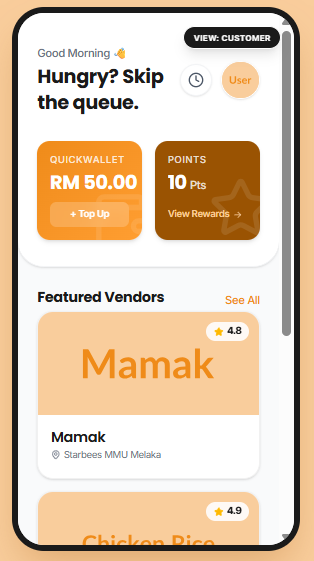
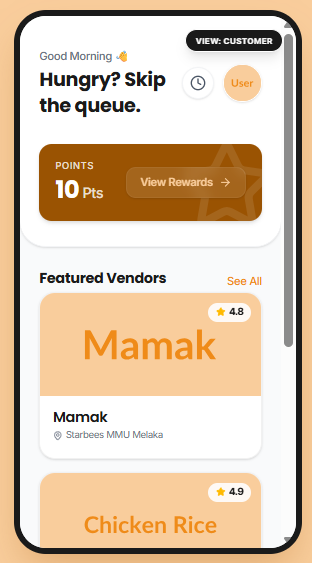
refactor(assets): update visual assets and viewport settings
Update hero image, refresh supporting assets, and adjust intersection observer margin for better reveal animations.

diff --git a/src/App.tsx b/src/App.tsx
@@ -17,7 +17,7 @@ import {
 import { motion, AnimatePresence } from 'motion/react';
 
 import LogoImg from './assets/images/regenerated_image_1778820992688.jpg';
-import HeroImg from './assets/images/regenerated_image_1778682076766.png';
+import HeroImg from './assets/images/regenerated_image_1781268365381.jpg';
 import TestimonialImg1 from './assets/images/regenerated_image_1778683436041.png';
 import TestimonialImg2 from './assets/images/regenerated_image_1778683436809.png';
 import DemoMockupImg from './assets/images/regenerated_image_1778766052214.png';
@@ -186,7 +186,7 @@ export default function App() {
           <motion.div 
             initial={{ opacity: 0, y: 30 }}
             whileInView={{ opacity: 1, y: 0 }}
-            viewport={{ once: true }}
+            viewport={{ once: true, margin: "-100px" }}
             className="mb-16"
           >
             <h2 className="text-4xl lg:text-5xl font-bold mb-6">Wasting Your Break in Long Lines?</h2>
@@ -203,10 +203,10 @@ export default function App() {
             ].map((item, i) => (
               <motion.div 
                 key={i}
-                initial={{ opacity: 0, y: 20 }}
+                initial={{ opacity: 0, y: 30 }}
                 whileInView={{ opacity: 1, y: 0 }}
-                viewport={{ once: true }}
-                transition={{ delay: i * 0.1 }}
+                viewport={{ once: true, margin: "-50px" }}
+                transition={{ duration: 0.8, ease: [0.16, 1, 0.3, 1], delay: i * 0.12 }}
                 className="p-10 border border-secondary bg-white rounded-xl shadow-editorial group hover:bg-secondary transition-all duration-300"
               >
                 <div className="text-primary group-hover:text-white mb-6 transition-colors inline-block">{item.icon}</div>
@@ -221,9 +221,15 @@ export default function App() {
       {/* 3. SOLUTION / SERVICES */}
       <section id="services" className="py-24 bg-gray-50">
         <div className="max-w-7xl mx-auto px-4 sm:px-6 lg:px-8">
-          <div className="text-center mb-16">
+          <motion.div 
+            initial={{ opacity: 0, y: 30 }}
+            whileInView={{ opacity: 1, y: 0 }}
+            viewport={{ once: true, margin: "-100px" }}
+            transition={{ duration: 0.8, ease: "easeOut" }}
+            className="text-center mb-16"
+          >
             <h2 className="text-4xl lg:text-5xl font-bold mb-6">Your Fast Track to Food</h2>
-          </div>
+          </motion.div>
           
           <div className="grid sm:grid-cols-2 lg:grid-cols-4 gap-4">
             {[
@@ -234,9 +240,10 @@ export default function App() {
             ].map((item, i) => (
               <motion.div 
                 key={i}
-                initial={{ opacity: 0, y: 20 }}
+                initial={{ opacity: 0, y: 30 }}
                 whileInView={{ opacity: 1, y: 0 }}
-                viewport={{ once: true }}
+                viewport={{ once: true, margin: "-50px" }}
+                transition={{ duration: 0.8, ease: [0.16, 1, 0.3, 1], delay: i * 0.12 }}
                 className="bg-white p-8 rounded-2xl shadow-sm hover:shadow-xl transition-all border border-gray-100 flex flex-col items-center text-center"
               >
                 <div className="w-14 h-14 bg-primary/10 rounded-xl flex items-center justify-center text-primary mb-6">
@@ -253,7 +260,13 @@ export default function App() {
       {/* 4. PROOF / PORTFOLIO (MVP Demo Section) */}
       <section id="demo" className="py-24 bg-neutral-accent">
         <div className="max-w-7xl mx-auto px-4 sm:px-6 lg:px-8">
-          <div className="text-center mb-12">
+          <motion.div 
+            initial={{ opacity: 0, y: 30 }}
+            whileInView={{ opacity: 1, y: 0 }}
+            viewport={{ once: true, margin: "-100px" }}
+            transition={{ duration: 0.8, ease: "easeOut" }}
+            className="text-center mb-12"
+          >
             <h2 className="text-4xl lg:text-5xl font-bold mb-10">See QuickBite in Action</h2>
             <div className="inline-flex bg-white/50 p-1.5 rounded-full border border-gray-200">
               <button 
@@ -269,9 +282,15 @@ export default function App() {
                 Vendor Dashboard
               </button>
             </div>
-          </div>
+          </motion.div>
 
-          <div className="relative mt-16 max-w-4xl mx-auto">
+          <motion.div 
+            initial={{ opacity: 0, y: 40 }}
+            whileInView={{ opacity: 1, y: 0 }}
+            viewport={{ once: true, margin: "-100px" }}
+            transition={{ duration: 0.8, ease: "easeOut", delay: 0.15 }}
+            className="relative mt-16 max-w-4xl mx-auto"
+          >
              <AnimatePresence mode="wait">
                <motion.div
                  key={demoMode}
@@ -291,35 +310,42 @@ export default function App() {
                  </div>
                </motion.div>
              </AnimatePresence>
-          </div>
+          </motion.div>
         </div>
       </section>
 
       {/* 5. PROOF / TESTIMONIALS */}
       <section className="py-24 bg-white">
-        <div className="max-w-7xl mx-auto px-4 sm:px-6 lg:px-8 text-center uppercase tracking-widest text-secondary font-bold text-sm mb-16 opacity-60">
+        <motion.div 
+          initial={{ opacity: 0, y: 20 }}
+          whileInView={{ opacity: 1, y: 0 }}
+          viewport={{ once: true, margin: "-100px" }}
+          transition={{ duration: 0.6 }}
+          className="max-w-7xl mx-auto px-4 sm:px-6 lg:px-8 text-center uppercase tracking-widest text-secondary font-bold text-sm mb-16 opacity-60"
+        >
           Validated by the MMU Community
-        </div>
+        </motion.div>
         <div className="max-w-7xl mx-auto px-4 sm:px-6 lg:px-8 grid md:grid-cols-2 gap-12">
           {[
             { 
               quote: "Skipping the 40-minute queue gives me time to actually rest between classes.", 
-              author: "Anonymous Student", 
+              author: "Lim Kwok Hsiung", 
               role: "MMU Student",
               img: TestimonialImg1
             },
             { 
               quote: "Receiving pre-orders systematically helps us prepare meals ahead of time and completely eliminates the lunchtime chaos.", 
-              author: "Anonymous Vendor", 
+              author: "Firdaus", 
               role: "Campus Food Vendor",
               img: TestimonialImg2
             }
           ].map((testi, i) => (
             <motion.div 
               key={i}
-              initial={{ opacity: 0, x: i % 2 === 0 ? -20 : 20 }}
-              whileInView={{ opacity: 1, x: 0 }}
-              viewport={{ once: true }}
+              initial={{ opacity: 0, y: 40 }}
+              whileInView={{ opacity: 1, y: 0 }}
+              viewport={{ once: true, margin: "-100px" }}
+              transition={{ duration: 0.8, ease: [0.16, 1, 0.3, 1], delay: i * 0.15 }}
               className="bg-white p-12 rounded-xl shadow-editorial border border-gray-100 relative"
             >
               <span className="text-8xl text-primary/10 absolute top-4 left-6 leading-none select-none">"</span>
@@ -341,27 +367,42 @@ export default function App() {
       {/* 6. ABOUT US */}
       <section className="py-24 bg-secondary text-white overflow-hidden relative">
         <div className="absolute top-0 right-0 w-1/3 h-full bg-primary/5 -skew-x-12 transform origin-top-right"></div>
-        <div className="max-w-7xl mx-auto px-4 sm:px-6 lg:px-8 relative z-10 flex flex-col items-center text-center">
-          <motion.div 
-            initial={{ opacity: 0, scale: 0.9 }}
-            whileInView={{ opacity: 1, scale: 1 }}
-            viewport={{ once: true }}
-            className="mb-10 w-20 h-20 bg-primary rounded-2xl flex items-center justify-center"
-          >
+        <motion.div 
+          initial={{ opacity: 0, y: 40 }}
+          whileInView={{ opacity: 1, y: 0 }}
+          viewport={{ once: true, margin: "-100px" }}
+          transition={{ duration: 0.8, ease: "easeOut" }}
+          className="max-w-7xl mx-auto px-4 sm:px-6 lg:px-8 relative z-10 flex flex-col items-center text-center"
+        >
+          <div className="mb-10 w-20 h-20 bg-primary rounded-2xl flex items-center justify-center">
             <Smartphone size={40} className="text-white" />
-          </motion.div>
+          </div>
           <h2 className="text-4xl lg:text-5xl font-bold mb-8">Built by Students, For the MMU Community</h2>
           <p className="text-white/80 text-xl leading-relaxed max-w-3xl">
             We are MMU students who got tired of skipping lunch. QuickBite was born to offer a stress-free dining experience for the MMU Community and a systematic order management tool for our hardworking campus vendors.
           </p>
-        </div>
+        </motion.div>
       </section>
 
       {/* 7. FAQ */}
       <section className="py-24 bg-white">
         <div className="max-w-3xl mx-auto px-4 sm:px-6 lg:px-8">
-          <h2 className="text-4xl lg:text-5xl font-bold mb-16 text-center">Frequently Asked Questions</h2>
-          <div className="space-y-4">
+          <motion.h2 
+            initial={{ opacity: 0, y: 30 }}
+            whileInView={{ opacity: 1, y: 0 }}
+            viewport={{ once: true, margin: "-100px" }}
+            transition={{ duration: 0.8, ease: "easeOut" }}
+            className="text-4xl lg:text-5xl font-bold mb-16 text-center"
+          >
+            Frequently Asked Questions
+          </motion.h2>
+          <motion.div 
+            initial={{ opacity: 0, y: 20 }}
+            whileInView={{ opacity: 1, y: 0 }}
+            viewport={{ once: true, margin: "-100px" }}
+            transition={{ duration: 0.8, ease: "easeOut", delay: 0.15 }}
+            className="space-y-4"
+          >
             <FAQItem 
               question="How do vendors receive my order?" 
               answer="Through our dedicated, easy-to-use vendor dashboard that systematically lists all pre-scheduled pickups. They can see what's coming next and prepare dishes just-in-time."
@@ -374,7 +415,7 @@ export default function App() {
               question="Is it MMU Cyberjaya or Melaka?" 
               answer="QuickBite is currently serving the MMU Melaka campus! We are expanding to other locations soon, so sign up for the waitlist to be notified when we launch elsewhere."
             />
-          </div>
+          </motion.div>
         </div>
       </section>
 
@@ -411,7 +452,7 @@ export default function App() {
             <div className="flex flex-wrap justify-center gap-8 text-sm font-medium">
               <a href="#" className="hover:text-primary transition-colors">Privacy Policy</a>
               <a href="#" className="hover:text-primary transition-colors">Terms of Service</a>
-              <a href="#" className="hover:text-primary transition-colors">Contact Us</a>
+              <a href="mailto:[email redacted]" className="hover:text-primary transition-colors">Contact Us</a>
             </div>
           </div>
         </div>

diff --git a/vite.config.ts b/vite.config.ts
@@ -6,7 +6,6 @@ import {defineConfig, loadEnv} from 'vite';
 export default defineConfig(({mode}) => {
   const env = loadEnv(mode, '.', '');
   return {
-    base: '/QuickBite-LP/',
     plugins: [react(), tailwindcss()],
     define: {
       'process.env.GEMINI_API_KEY': JSON.stringify(env.GEMINI_API_KEY),

diff --git a/README.md b/README.md
@@ -1,5 +1,5 @@
 <div align="center">
-<img width="1200" height="475" alt="GHBanner" src="https://github.com/user-attachments/assets/0aa67016-6eaf-458a-adb2-6e31a0763ed6" />
+<img width="1200" height="475" alt="GHBanner" src="https://ai.google.dev/static/site-assets/images/share-ais-513315318.png" />
 </div>
 
 # Run and deploy your AI Studio app